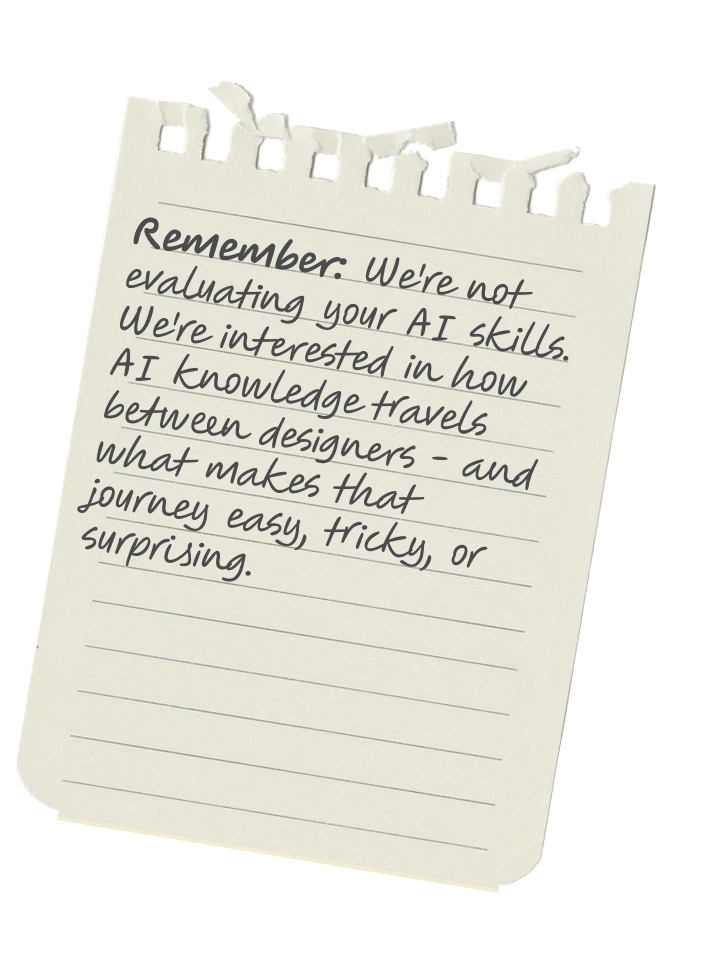
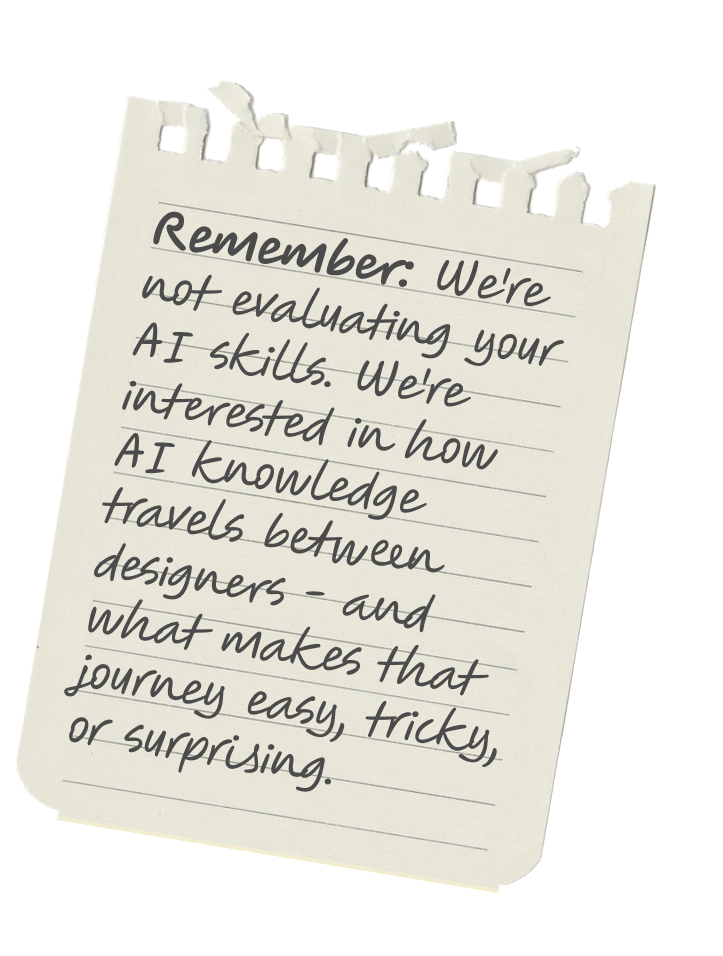
Match the intro spread to Figma and replace the reminder note
Show "Instructions" under the intro, add its spine holes, use a
semibold heading, and swap in the new reminder note image.

Changed region(s): [[0.0913, 0.2123, 0.7911, 0.819], [0.426, 0.6067, 0.4564, 0.637]]

diff --git a/index.html b/index.html
@@ -5,7 +5,7 @@
 <meta name="viewport" content="width=device-width, initial-scale=1">
 <title>Diary Study</title>
 <link rel="preconnect" href="https://fonts.googleapis.com">
-<link href="https://fonts.googleapis.com/css2?family=Fira+Code&family=Inter:wght@400;700&family=Caveat:wght@400;700&display=swap" rel="stylesheet">
+<link href="https://fonts.googleapis.com/css2?family=Fira+Code&family=Inter:wght@400;600;700&family=Caveat:wght@400;700&display=swap" rel="stylesheet">
 <style>
   :root {
     --bg: #1b1b1b;
@@ -103,8 +103,10 @@
   #binder .slot { width: 432px; height: 527px; position: relative; }
 
   /* intro spread extras */
+  /* Figma 40:992: spine holes on the intro's left half, punched through to the dark binder */
+  .intro-holes { left: 413px; --hole: #1b1b1b; }
   .card-hello { position: absolute; left: 8px; top: 16px; width: 389px; height: 284px; background: #eab9c2; color: #4b4b4b; }
-  .card-hello h2 { position: absolute; left: 22px; top: 22px; font-weight: 700; font-size: 16px; letter-spacing: -.96px; color: var(--ink); }
+  .card-hello h2 { position: absolute; left: 22px; top: 22px; font-weight: 600; font-size: 16px; letter-spacing: -.96px; color: var(--ink); }
   .card-hello .lede { position: absolute; left: 22px; top: 46px; width: 265px; font-size: 10px; letter-spacing: -.6px; }
   .polaroid { position: absolute; top: 102px; width: 139px; height: 150px; background: #fff; padding: 16px 8px 10px;
     display: flex; flex-direction: column; gap: 4px; box-shadow: 0 1px 3px rgba(0,0,0,.08); }
@@ -733,7 +735,7 @@
 
   function pages(s) {
     if (s.id === 'intro') return [
-      `<div class="card-hello"><h2>Welcome to your AI Workflow Diary!</h2>
+      `<div class="holes intro-holes"></div><div class="card-hello"><h2>Welcome to your AI Workflow Diary!</h2>
          <p class="lede">Over the next 5 days, you'll explore an AI workflow, share it with a fellow designer, and try adapting theirs to your own work.</p>
          <div class="polaroid one"><b>Day 1 &amp; 2</b><div class="pic"><img src="assets/photo-day12.png" alt=""></div>
            <p>Work on a sharable / generalizable workflow</p></div>
@@ -940,7 +942,7 @@
   function drawPager() {
     const s = sections[current];
     const group = s ? sections.filter(x => x.tab === s.tab) : [];
-    pageCount.textContent = s ? `Page ${group.indexOf(s) + 1} of ${group.length}` : '';
+    pageCount.textContent = !s ? '' : s.kind === 'intro' ? 'Instructions' : `Page ${group.indexOf(s) + 1} of ${group.length}`;
   }
   const diaryName = document.getElementById('diaryName');
   const drawName = () => { const n = (saved.name || '').trim(); diaryName.textContent = n ? `${n}’s Diary` : 'Your Diary'; };
